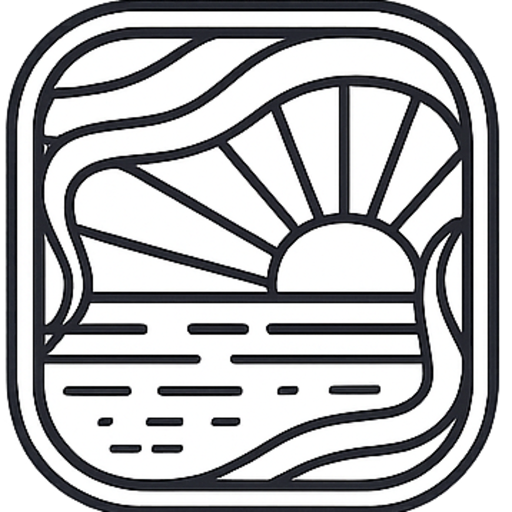
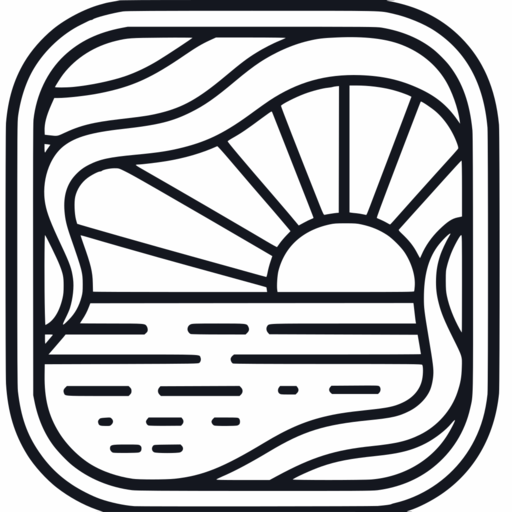
Replace brandmark with vectorized SVG across all assets
Regenerated all rasterized images (PNG, WEBP, AVIF, ICO) from the new
vectorized SVG brandmark. Added SVG as preferred source in picture
elements, favicon links, site.webmanifest, and JSON-LD structured data.

diff --git a/templates/base.html b/templates/base.html
@@ -36,6 +36,7 @@
     {% endblock head_meta %}
 
     <!-- Favicon -->
+    <link rel="icon" type="image/svg+xml" href="/favicon.svg">
     <link rel="icon" type="image/x-icon" href="/favicon.ico">
     <link rel="icon" type="image/png" sizes="32x32" href="/favicon-32x32.png">
     <link rel="icon" type="image/png" sizes="16x16" href="/favicon-16x16.png">
@@ -74,10 +75,11 @@
                 "logo": {
                     "@type": "ImageObject",
                     "@id": "{{ config.base_url }}/#logo",
-                    "url": "{{ config.base_url }}/img/archipelagio-brandmark.png",
-                    "contentUrl": "{{ config.base_url }}/img/archipelagio-brandmark.png",
-                    "width": 512,
-                    "height": 512,
+                    "url": "{{ config.base_url }}/img/archipelagio-brandmark.svg",
+                    "contentUrl": "{{ config.base_url }}/img/archipelagio-brandmark.svg",
+                    "width": 358,
+                    "height": 358,
+                    "encodingFormat": "image/svg+xml",
                     "caption": "Archipelag.io"
                 },
                 "image": "{{ config.base_url }}/og-image.png",
@@ -144,6 +146,7 @@
             <div class="header-inner">
                 <a href="/" class="header-logo" aria-label="archipelag.io">
                     <picture>
+                        <source srcset="/img/archipelagio-brandmark.svg" type="image/svg+xml">
                         <source srcset="/img/archipelagio-brandmark.avif" type="image/avif">
                         <source srcset="/img/archipelagio-brandmark.webp" type="image/webp">
                         <img src="/img/archipelagio-brandmark.png" alt="Archipelag.io logo" width="32" height="32" loading="eager">
@@ -279,6 +282,7 @@
                 <div class="footer-brand-col">
                     <a href="/" class="footer-logo" aria-label="Archipelag.io - Home">
                         <picture>
+                            <source srcset="/img/archipelagio-brandmark.svg" type="image/svg+xml">
                             <source srcset="/img/archipelagio-brandmark.avif" type="image/avif">
                             <source srcset="/img/archipelagio-brandmark.webp" type="image/webp">
                             <img src="/img/archipelagio-brandmark.png" alt="" width="80" height="80" loading="lazy">
@@ -358,7 +362,7 @@
                             <li><a href="https://github.com/archipelag-io/app" target="_blank" rel="noopener noreferrer" class="external">Coordinator</a></li>
                             <li><a href="https://github.com/archipelag-io/node-agent" target="_blank" rel="noopener noreferrer" class="external">Island Agent</a></li>
                             <li><a href="https://github.com/archipelag-io/proto-contracts" target="_blank" rel="noopener noreferrer" class="external">Proto Contracts</a></li>
-                            <li><a href="https://github.com/archipelag-io/website" target="_blank" rel="noopener noreferrer" class="external">Website</a></li>
+                            <li><a href="https://github.com/archipelag-io/archipelag.io" target="_blank" rel="noopener noreferrer" class="external">Website</a></li>
                         </ul>
                     </nav>
                 </div>
